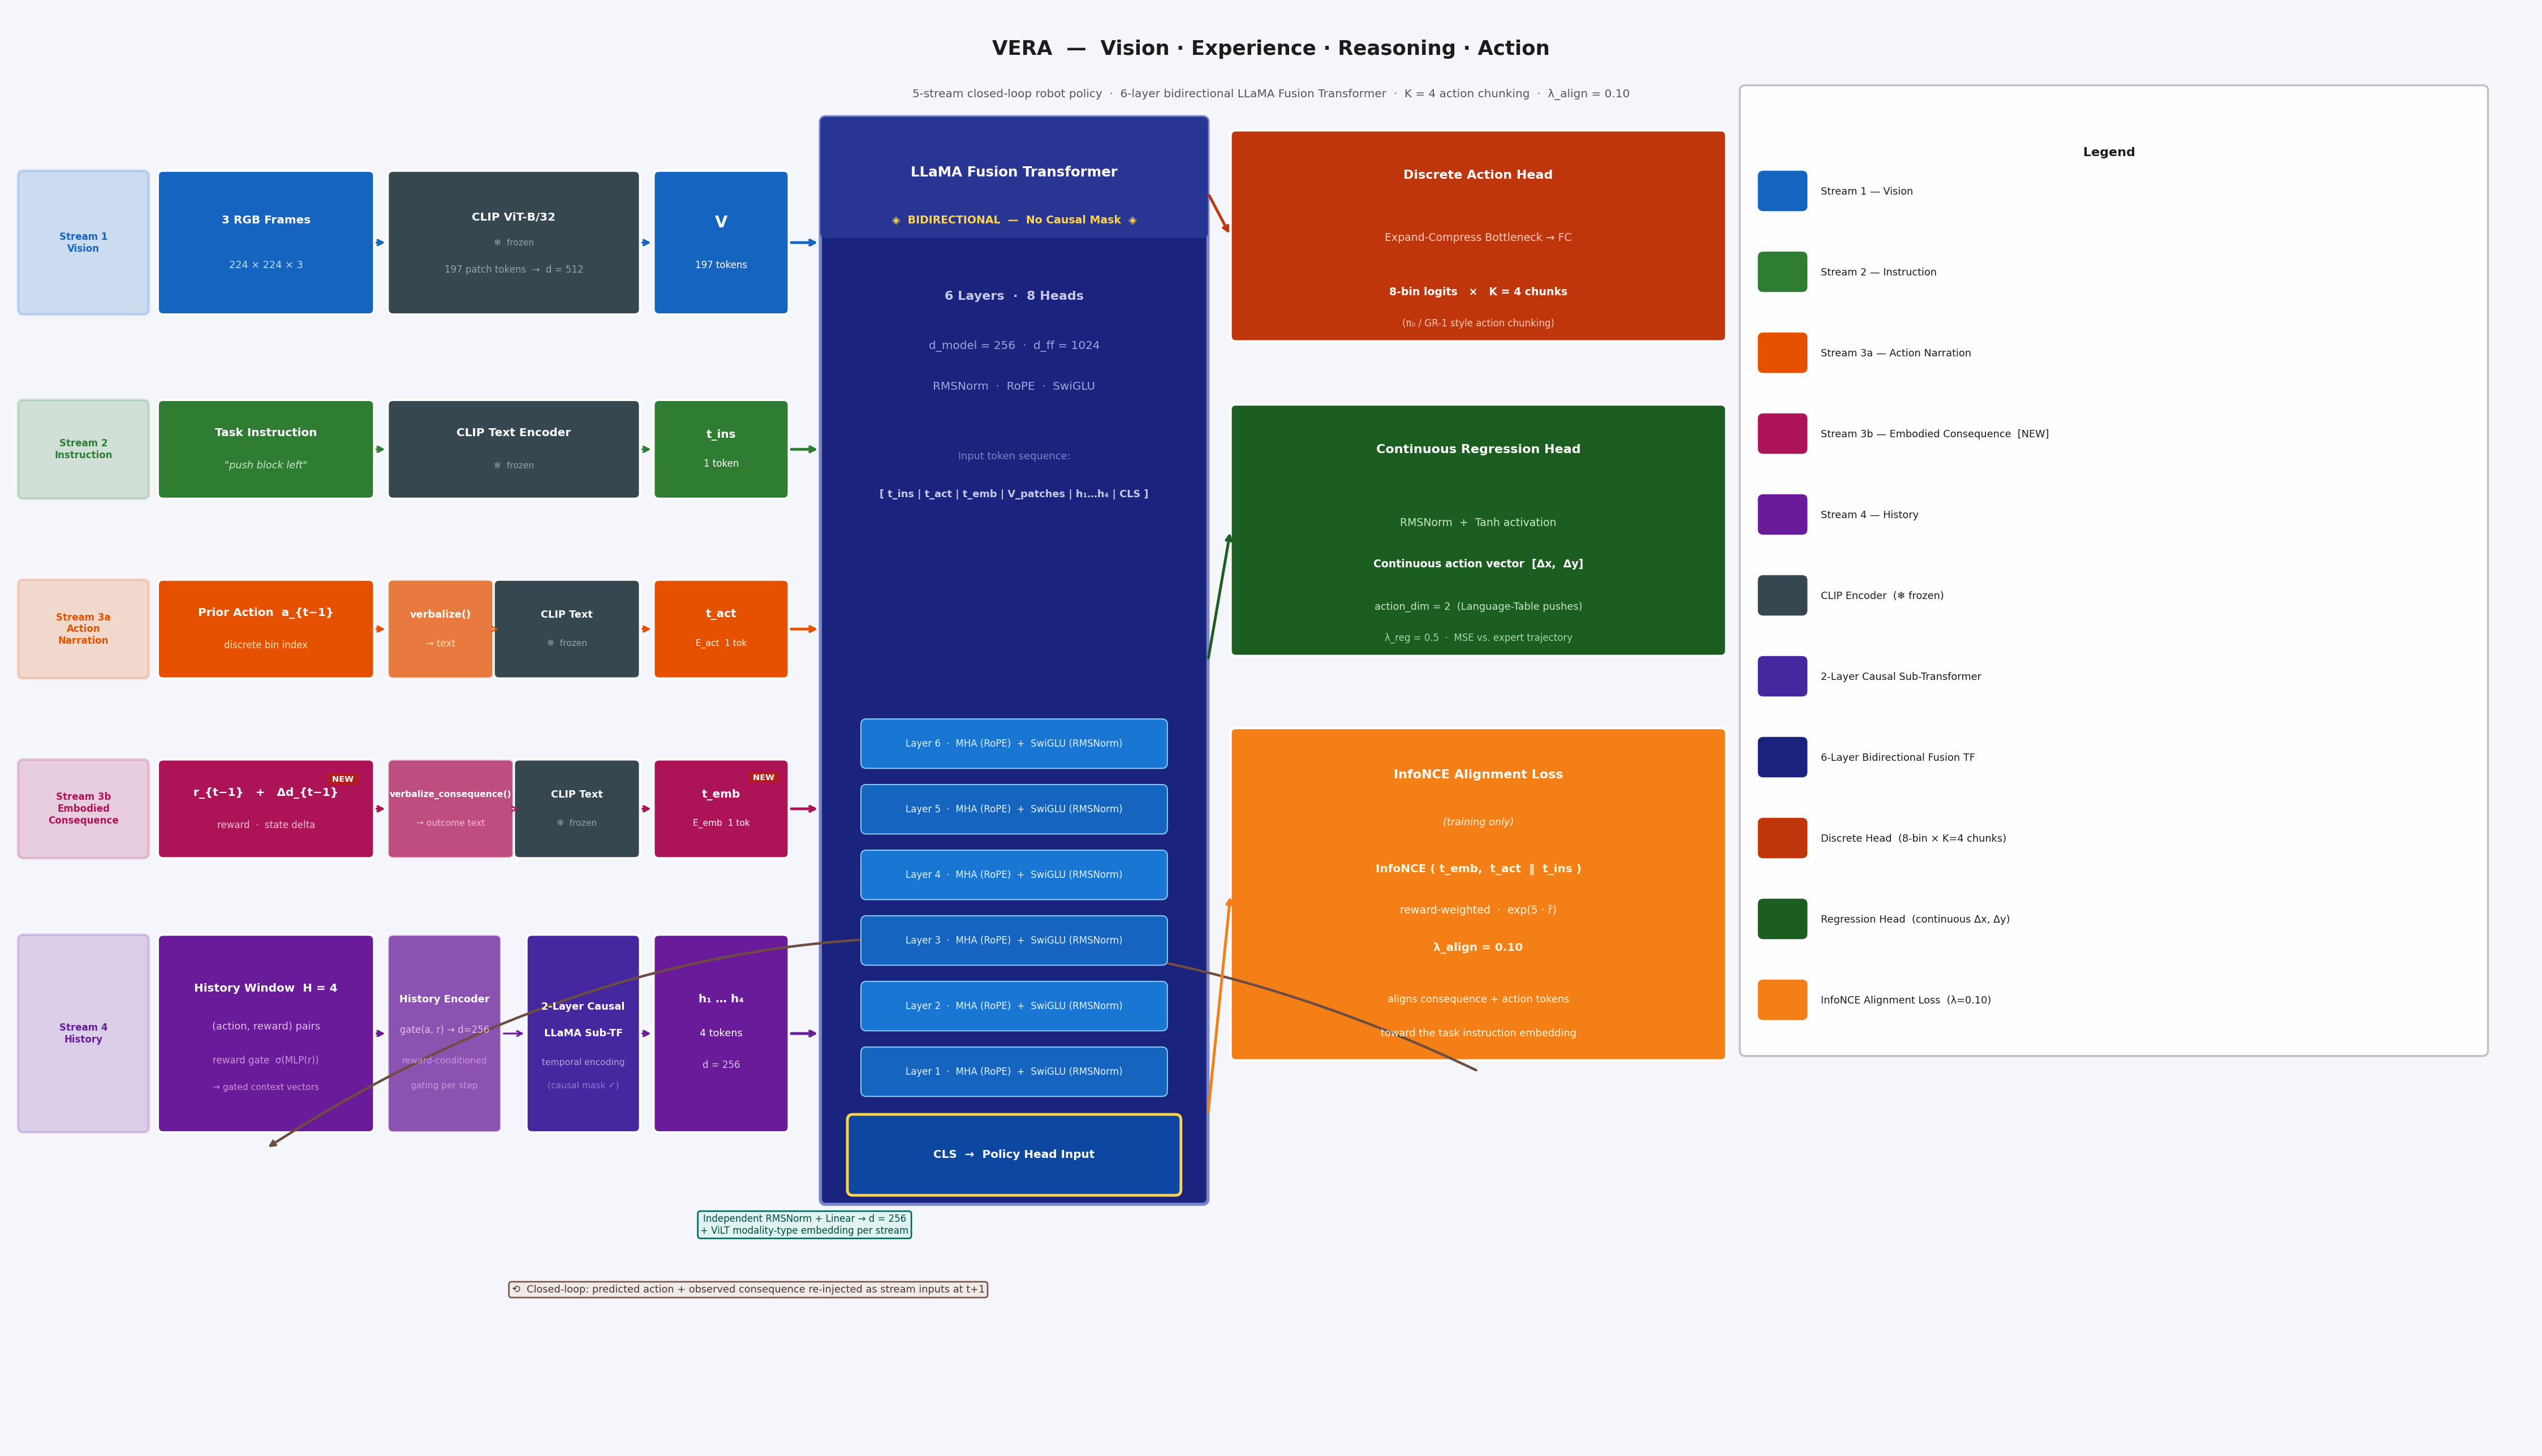
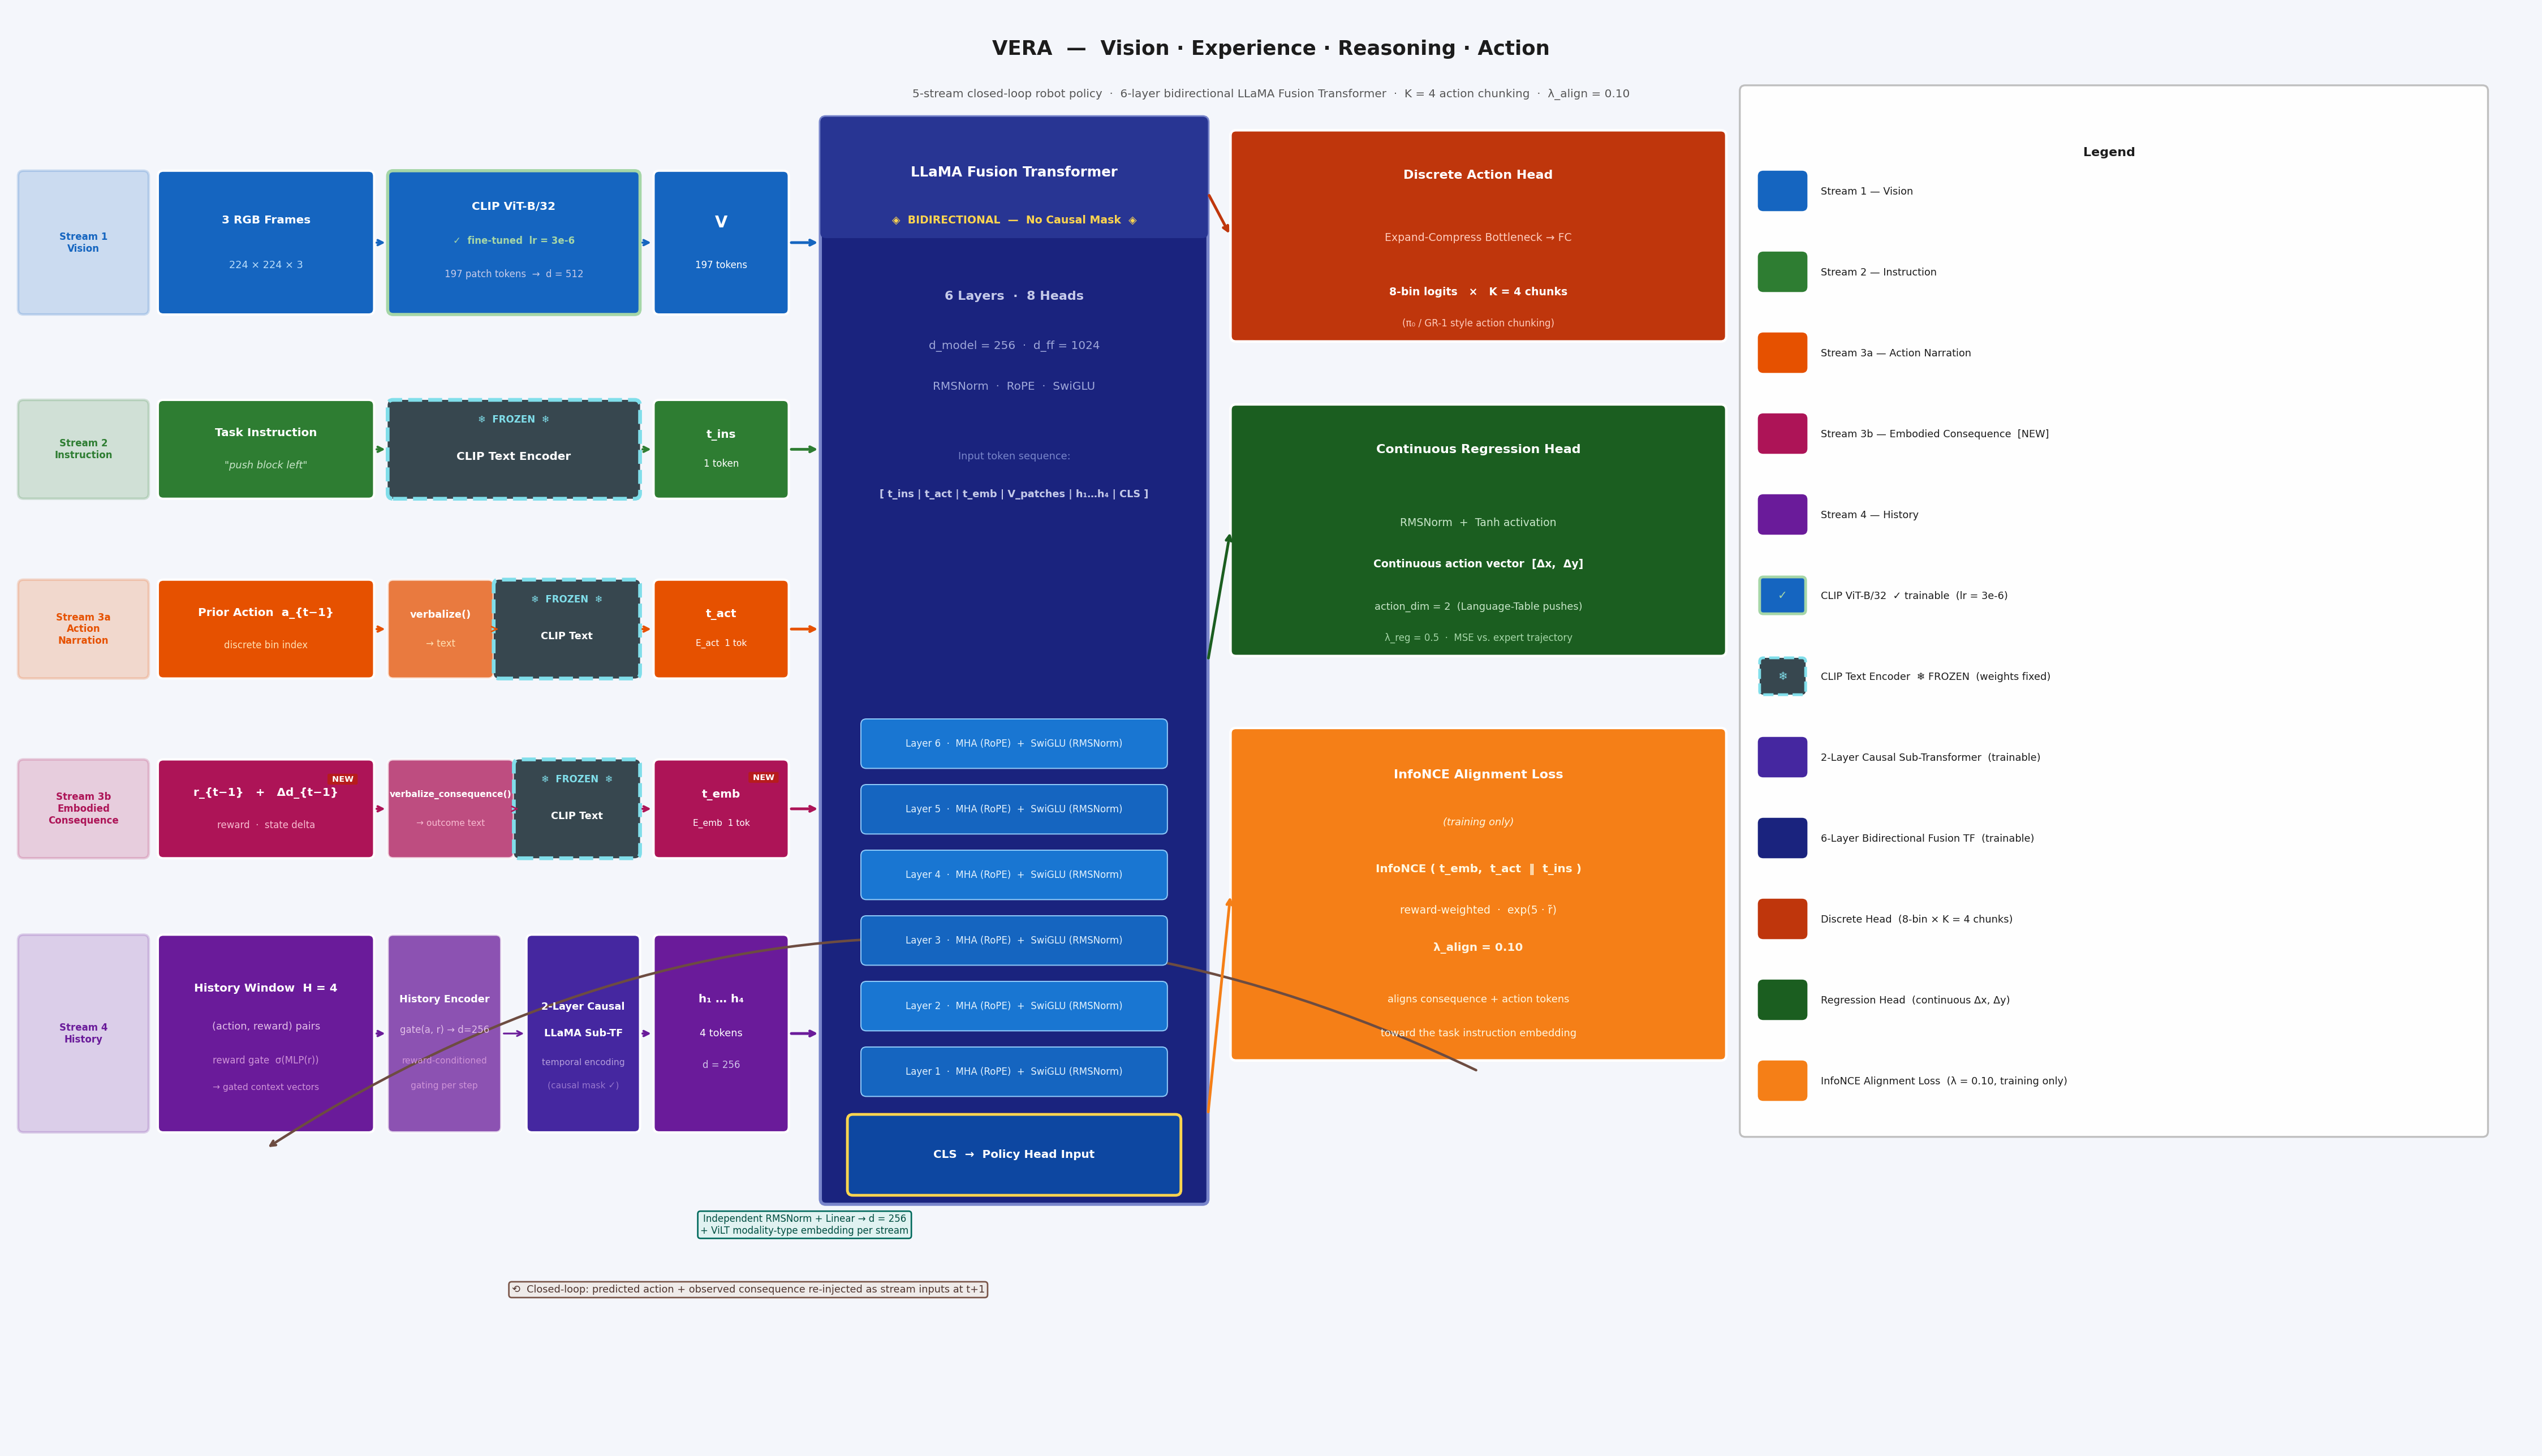
fig: fix frozen/trainable labels in VERA diagram (v3)
- CLIP ViT-B/32 (Stream 1): corrected from frozen → trainable,
  shown with green border + "fine-tuned lr=3e-6"
- CLIP Text Encoders (Streams 2, 3a, 3b): prominent dashed ice-blue
  border with "❄ FROZEN" banner — weights are fixed during SFT
- Legend updated to distinguish frozen vs trainable components

diff --git a/docs/make_vera_diagram.py b/docs/make_vera_diagram.py
@@ -1,5 +1,9 @@
 """
-VERA Architecture Diagram — v2 (correct: 6-layer fusion, λ_align=0.10)
+VERA Architecture Diagram — v3
+  - 6-layer bidirectional fusion (corrected from 8)
+  - λ_align = 0.10
+  - CLIP Text Encoders clearly marked FROZEN (hatched border)
+  - CLIP ViT-B/32 correctly marked TRAINABLE (fine-tuned at lr=3e-6)
 Run: python3 docs/make_vera_diagram.py
 Outputs: docs/VERA.png
 """
@@ -26,7 +30,8 @@ C_INS   = "#2E7D32"   # Stream 2 Instruction
 C_ACT   = "#E65100"   # Stream 3a Action Narration
 C_EMB   = "#AD1457"   # Stream 3b Consequence  [NEW]
 C_HIS   = "#6A1B9A"   # Stream 4 History
-C_CLIP  = "#37474F"   # CLIP backbone (frozen)
+C_CLIP  = "#37474F"   # CLIP Text backbone (frozen)
+C_VIT   = "#1565C0"   # CLIP ViT vision (trainable, fine-tuned lr=3e-6)
 C_SUB   = "#4527A0"   # Causal sub-transformer
 C_FUSE  = "#1A237E"   # Bidirectional fusion
 C_DIS   = "#BF360C"   # Discrete head
@@ -67,9 +72,27 @@ def new_badge(x, y):
             color=WHITE, fontweight="bold", zorder=8,
             bbox=dict(boxstyle="round,pad=0.18", fc=C_NEW, ec="none"))
 
-def frozen_tag(cx, y, fs=7):
-    ax.text(cx, y, "❄  frozen", ha="center", va="center",
-            fontsize=fs, color="#90A4AE", zorder=6)
+def frozen_box(x, y, w, h, z=4):
+    """Dark box with a thick ice-blue dashed border — clearly FROZEN."""
+    # Solid dark fill
+    p = FancyBboxPatch(
+        (x + 0.06, y + 0.06), w - 0.12, h - 0.12,
+        boxstyle="round,pad=0.06",
+        facecolor=C_CLIP, edgecolor="#80DEEA", linewidth=3.0,
+        linestyle="dashed", alpha=1.0, zorder=z,
+    )
+    ax.add_patch(p)
+    # FROZEN banner across top of box
+    ax.text(x + w / 2, y + h - 0.22,
+            "❄  FROZEN  ❄",
+            ha="center", va="center", fontsize=7.5, color="#80DEEA",
+            fontweight="bold", zorder=z + 1)
+
+def trainable_tag(cx, y, fs=7.5):
+    """Small green 'trainable' tag used on the fine-tuned ViT."""
+    ax.text(cx, y, "✓  fine-tuned  lr = 3e-6",
+            ha="center", va="center", fontsize=fs,
+            color="#A5D6A7", fontweight="bold", zorder=6)
 
 # ── Stream geometry ───────────────────────────────────────────────────────────
 # Each row: (y_centre, row_height)
@@ -142,10 +165,11 @@ txt(X_IN + W_IN / 2, yc(k) - 0.25, "224 × 224 × 3", fs=8, c="#BBDEFB")
 
 arr(X_IN + W_IN, yc(k), X_ENC, yc(k), c=C_VIS)
 
-box(X_ENC, yb(k), W_ENC, yh(k), C_CLIP)
-txt(X_ENC + W_ENC / 2, yc(k) + 0.28, "CLIP ViT-B/32", fs=9, bold=True)
-frozen_tag(X_ENC + W_ENC / 2, yc(k))
-txt(X_ENC + W_ENC / 2, yc(k) - 0.30, "197 patch tokens  →  d = 512", fs=7.5, c="#90A4AE")
+# Vision encoder: TRAINABLE (fine-tuned at lower lr)
+box(X_ENC, yb(k), W_ENC, yh(k), fc=C_VIS, ec="#A5D6A7", lw=2.5)
+txt(X_ENC + W_ENC / 2, yc(k) + 0.40, "CLIP ViT-B/32", fs=9, bold=True)
+trainable_tag(X_ENC + W_ENC / 2, yc(k) + 0.02)
+txt(X_ENC + W_ENC / 2, yc(k) - 0.35, "197 patch tokens  →  d = 512", fs=7.5, c="#C5CAE9")
 
 arr(X_ENC + W_ENC, yc(k), X_TOK, yc(k), c=C_VIS)
 
@@ -165,9 +189,8 @@ txt(X_IN + W_IN / 2, yc(k) - 0.18, '"push block left"', fs=8, c="#C8E6C9", itali
 
 arr(X_IN + W_IN, yc(k), X_ENC, yc(k), c=C_INS)
 
-box(X_ENC, yb(k), W_ENC, yh(k), C_CLIP)
-txt(X_ENC + W_ENC / 2, yc(k) + 0.18, "CLIP Text Encoder", fs=9, bold=True)
-frozen_tag(X_ENC + W_ENC / 2, yc(k) - 0.18)
+frozen_box(X_ENC, yb(k), W_ENC, yh(k))
+txt(X_ENC + W_ENC / 2, yc(k) - 0.08, "CLIP Text Encoder", fs=9, bold=True)
 
 arr(X_ENC + W_ENC, yc(k), X_TOK, yc(k), c=C_INS)
 
@@ -196,9 +219,8 @@ txt(X_ENC + v_w / 2, yc(k) - 0.16, "→ text", fs=7.5, c="#FFE0B2")
 
 arr(X_ENC + v_w, yc(k), X_ENC + v_w + 0.05, yc(k), c=C_ACT, lw=1.2)
 
-box(X_ENC + v_w, yb(k), c_w, yh(k), C_CLIP)
-txt(X_ENC + v_w + c_w / 2, yc(k) + 0.16, "CLIP Text", fs=8, bold=True)
-frozen_tag(X_ENC + v_w + c_w / 2, yc(k) - 0.16)
+frozen_box(X_ENC + v_w, yb(k), c_w, yh(k))
+txt(X_ENC + v_w + c_w / 2, yc(k) - 0.08, "CLIP Text", fs=8, bold=True)
 
 arr(X_ENC + W_ENC, yc(k), X_TOK, yc(k), c=C_ACT)
 
@@ -227,9 +249,8 @@ txt(X_ENC + vc_w / 2, yc(k) - 0.16, "→ outcome text", fs=7, c="#F8BBD0")
 
 arr(X_ENC + vc_w, yc(k), X_ENC + vc_w + 0.05, yc(k), c=C_EMB, lw=1.2)
 
-box(X_ENC + vc_w, yb(k), cc_w, yh(k), C_CLIP)
-txt(X_ENC + vc_w + cc_w / 2, yc(k) + 0.16, "CLIP Text", fs=8, bold=True)
-frozen_tag(X_ENC + vc_w + cc_w / 2, yc(k) - 0.16)
+frozen_box(X_ENC + vc_w, yb(k), cc_w, yh(k))
+txt(X_ENC + vc_w + cc_w / 2, yc(k) - 0.08, "CLIP Text", fs=8, bold=True)
 
 arr(X_ENC + W_ENC, yc(k), X_TOK, yc(k), c=C_EMB)
 
@@ -416,17 +437,18 @@ ax.text(
 # LEGEND
 # ══════════════════════════════════════════════════════════════════════════════
 leg_items = [
-    (C_VIS,  "Stream 1 — Vision"),
-    (C_INS,  "Stream 2 — Instruction"),
-    (C_ACT,  "Stream 3a — Action Narration"),
-    (C_EMB,  "Stream 3b — Embodied Consequence  [NEW]"),
-    (C_HIS,  "Stream 4 — History"),
-    (C_CLIP, "CLIP Encoder  (❄ frozen)"),
-    (C_SUB,  "2-Layer Causal Sub-Transformer"),
-    (C_FUSE, "6-Layer Bidirectional Fusion TF"),
-    (C_DIS,  "Discrete Head  (8-bin × K=4 chunks)"),
-    (C_REG,  "Regression Head  (continuous Δx, Δy)"),
-    ("#F57F17", "InfoNCE Alignment Loss  (λ=0.10)"),
+    (C_VIS,    "Stream 1 — Vision"),
+    (C_INS,    "Stream 2 — Instruction"),
+    (C_ACT,    "Stream 3a — Action Narration"),
+    (C_EMB,    "Stream 3b — Embodied Consequence  [NEW]"),
+    (C_HIS,    "Stream 4 — History"),
+    (C_VIS,    "CLIP ViT-B/32  ✓ trainable  (lr = 3e-6)"),   # dashed green border drawn separately
+    (C_CLIP,   "CLIP Text Encoder  ❄ FROZEN  (weights fixed)"),
+    (C_SUB,    "2-Layer Causal Sub-Transformer  (trainable)"),
+    (C_FUSE,   "6-Layer Bidirectional Fusion TF  (trainable)"),
+    (C_DIS,    "Discrete Head  (8-bin × K = 4 chunks)"),
+    (C_REG,    "Regression Head  (continuous Δx, Δy)"),
+    ("#F57F17", "InfoNCE Alignment Loss  (λ = 0.10, training only)"),
 ]
 
 LY_TOP = 14.60
@@ -440,7 +462,25 @@ txt(LX + 3.9, LY_TOP - 0.20, "Legend", fs=10, c=DARK, bold=True, z=7)
 
 for i, (col, lbl) in enumerate(leg_items):
     ly = LY_TOP - 0.65 - i * LY_STEP
-    box(LX, ly - 0.20, 0.55, 0.45, fc=col, ec="none", z=7)
+    if "FROZEN" in lbl:
+        # Dashed ice-blue border to match frozen_box style
+        p = FancyBboxPatch((LX + 0.06, ly - 0.14), 0.43, 0.33,
+                           boxstyle="round,pad=0.04",
+                           fc=C_CLIP, ec="#80DEEA", lw=2.2,
+                           linestyle="dashed", zorder=7)
+        ax.add_patch(p)
+        ax.text(LX + 0.275, ly + 0.02, "❄", ha="center", va="center",
+                fontsize=9, color="#80DEEA", zorder=8)
+    elif "trainable  (lr" in lbl:
+        # Green border to match fine-tuned ViT style
+        p = FancyBboxPatch((LX + 0.06, ly - 0.14), 0.43, 0.33,
+                           boxstyle="round,pad=0.04",
+                           fc=C_VIS, ec="#A5D6A7", lw=2.2, zorder=7)
+        ax.add_patch(p)
+        ax.text(LX + 0.275, ly + 0.02, "✓", ha="center", va="center",
+                fontsize=9, color="#A5D6A7", fontweight="bold", zorder=8)
+    else:
+        box(LX, ly - 0.20, 0.55, 0.45, fc=col, ec="none", z=7)
     ax.text(LX + 0.70, ly + 0.02, lbl, ha="left", va="center",
             fontsize=8, color=DARK, zorder=7)
 